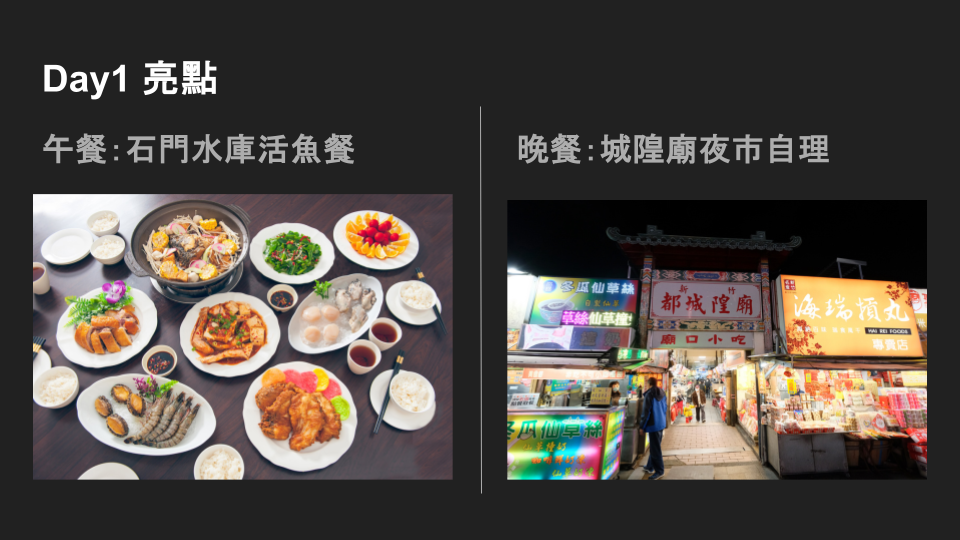
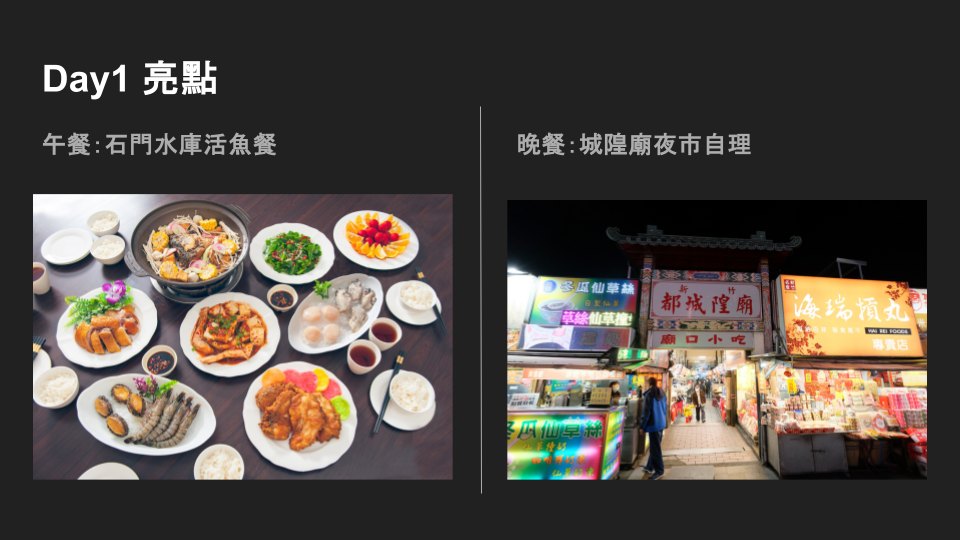
add day3

Changed region(s): [[0.5312, 0.237, 0.875, 0.3259], [0.0312, 0.237, 0.375, 0.3259]]

diff --git a/life/cycling.md b/life/cycling.md
@@ -287,25 +287,37 @@ description: 《從單車休閒到環島旅行》紀錄了從2020年初次環島
 **個人感受**  
 第一天的行程設計既有適應環島的暖身段，又融入爬坡與下坡的騎行挑戰，幫助我迅速進入狀態。特別是新竹城隍廟夜市的美食，不僅滿足了味覺，更讓我感受到台灣在地文化的魅力，為接下來的旅程注入更多動力與期待。
 
-![Day1亮點](/life/cycling/Day1亮點.png "Day1亮點")
+![day1亮點](/life/cycling/day1亮點.png "day1亮點")
 
 ### 第二天：新竹 ~ 台中  
-**路程亮點**：  
-- 途經香山濕地，海岸風景宜人，讓人流連忘返。  
-- 中午在苑里川菜館用餐，味道濃郁。  
-- 下午參觀捷安特新總部的單車博物館，了解單車設計的歷史與創新。
 
-**個人感受**：  
-香山濕地的海風吹走了一路的疲憊，而捷安特博物館則是單車愛好者的天堂。
+**本日行程概述**  
+第二天從新竹出發，前往台中，全程約100公里，路況以平坦與小起伏為主，是一段節奏適中的騎行路段。早晨離開新竹後，途經香山濕地，欣賞自然生態之美。接著騎行苗栗的鄉村道路，沿途綠意盎然，令人心曠神怡。午餐後的行程逐漸進入更為平緩的路段，適合保持穩定的配速，並利用沿途休息點進行補給與調整。
+
+**路程亮點**  
+- **香山濕地**：新竹香山濕地是全台重要的濕地之一，濕地的潮汐與自然生態為騎行增添了豐富的視覺享受，清晨的海風吹拂更讓人精神振奮。  
+- **苑里川菜館**：中午停留於苑里川菜館，這裡提供豐富且地道的美食，為騎行者補充充足的能量。  
+- **捷安特新總部單車博物館**：下午參觀捷安特新總部的單車博物館，館內展示單車發展歷史與創新技術，是了解單車文化的理想地點。  
+
+**個人感受**  
+第二天的騎行路線在風景與節奏上都令人舒適，香山濕地的自然美景為早晨騎行帶來了極大的愉悅感，沿途的鄉村田園風光也讓人身心放鬆。捷安特博物館的參觀更是整日行程的亮點，作為單車愛好者，能親身感受到單車技術的演進，無疑是一次深刻的體驗。抵達台中後，充分的休息為後續的旅程做好了準備。
+
+![day2亮點](/life/cycling/day2亮點.png "day2亮點")
 
 ### 第三天：台中 ~ 嘉義  
-**路程亮點**：  
-- 清晨穿越彰化外環道，避開了城市擁擠的交通。  
-- 中途在溪湖糖廠稍作停留，品嚐糖廠限定的甘蔗冰淇淋。  
-- 經過西螺大橋，壯觀的景色讓人停下腳步拍照。
 
-**個人感受**：  
-這天的路程稍顯長，但溪湖糖廠和西螺大橋成為讓人難忘的兩個打卡點。
+**本日行程概述**  
+第三天從台中出發前往嘉義，全程約120公里，路況逐漸增加挑戰性，包含平路與丘陵。早晨經過彰化外環道，避開市區繁忙的交通，沿途穿越鄉村道路，享受稻田與鄉間的清新空氣。中途停留溪湖糖廠和西螺大橋等經典景點，下午進入嘉義地區，感受到中部平原的獨特魅力。
+
+**路程亮點**  
+- **彰化外環道**：避開市區擁擠車流的最佳選擇，平坦的道路讓騎行更加順暢，沿途的鄉村風光令人放鬆身心。  
+- **溪湖糖廠**：途中在溪湖糖廠稍作停留，品嚐限定的甘蔗冰淇淋，為旅程增添甜蜜回憶。  
+- **西螺大橋**：壯觀的西螺大橋連接彰化與雲林，橋上的景致讓人駐足拍照，並成為今日的一大亮點。  
+
+**個人感受**  
+今天因為眼鏡斷掉，導致我未能跟上行程，但過往的經驗中，這段路線的體驗與此次安排基本一致。溪湖糖廠的甘蔗冰是消暑的絕佳選擇，而西螺大橋的壯觀景致更是讓人無法忘懷的打卡地點。雖然未能親身參與，但對這段路程的美好印象依然深刻，也期待能在未來的旅程中再次感受這份樂趣與挑戰。
+
+![day3亮點](/life/cycling/day3亮點.png "day3亮點")
 
 ### 第四天：嘉義 ~ 高雄  
 **路程亮點**：  
